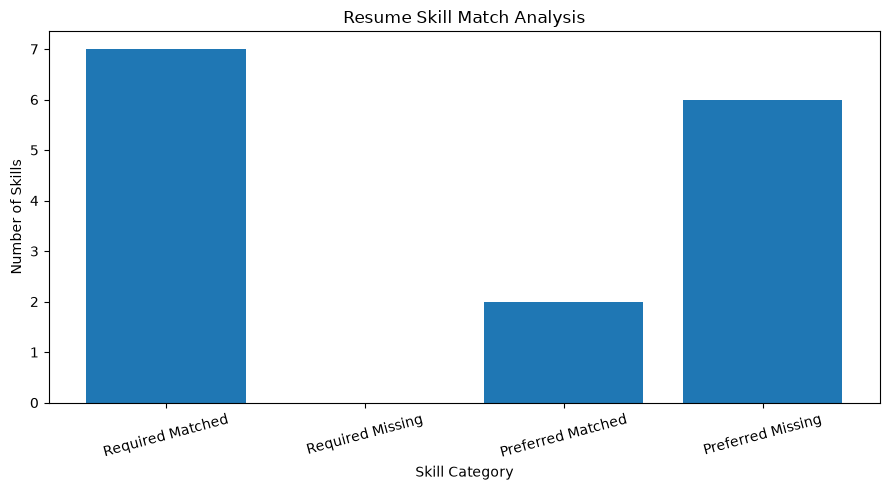
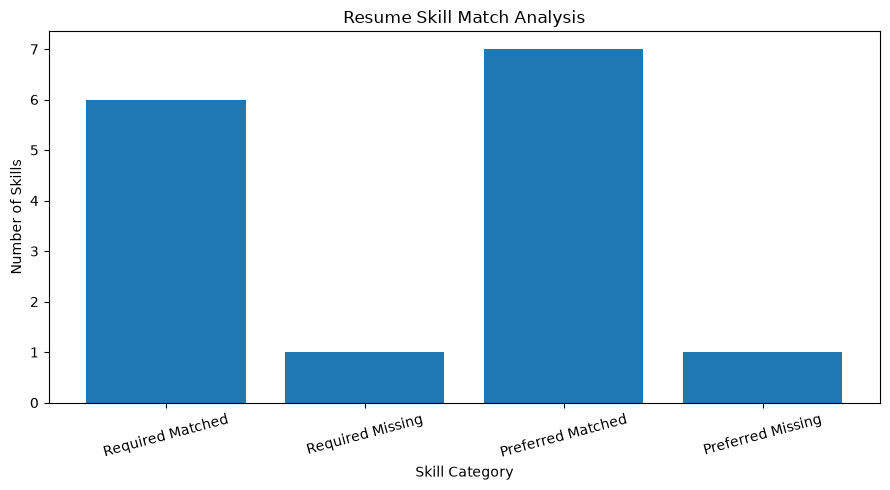
Improve skill matching with synonym support

diff --git a/resume_analyzer.py b/resume_analyzer.py
@@ -105,22 +105,61 @@ with open("skills.txt", "r", encoding="utf-8") as file:
         elif current_section == "preferred":
             preferred_skills.append(line.lower())
 
+# ==========================================
+# SKILL MATCHING WITH SYNONYMS
+# ==========================================
+
+resume_lower = resume_text.lower()
+job_lower = job_description.lower()
+
+skill_synonyms = {
+    "python": ["python"],
+    "sql": ["sql", "structured query language"],
+    "pandas": ["pandas"],
+    "numpy": ["numpy"],
+    "scikit-learn": ["scikit-learn", "sklearn"],
+    "machine learning": ["machine learning", "ml"],
+    "data analysis": ["data analysis", "analyzing data", "analysing data"],
+    "statistics": ["statistics", "statistical analysis"],
+    "data visualization": [
+        "data visualization",
+        "data visualisation",
+        "data visualization tools",
+        "data visualisation tools"
+    ],
+    "communication": ["communication", "communicating"],
+    "problem-solving": ["problem-solving", "problem solving"],
+    "analytical thinking": ["analytical thinking", "analytical skills"],
+    "git": ["git"],
+    "github": ["github"],
+    "business analytics": ["business analytics", "business analysis"]
+}
+
+
+def skill_is_present(skill, text):
+    variants = skill_synonyms.get(skill.lower(), [skill.lower()])
+
+    for variant in variants:
+        pattern = r"(?<!\w)" + re.escape(variant) + r"(?!\w)"
+
+        if re.search(pattern, text):
+            return True
+
+    return False
+
+
 skills = required_skills + preferred_skills
 
 matching_skills = []
 missing_skills = []
 
 for skill in skills:
-
-    skill_pattern = r"\b" + re.escape(skill) + r"\b"
-
-    if re.search(skill_pattern, job_lower):
-
-        if re.search(skill_pattern, resume_lower):
+    if skill_is_present(skill, job_lower):
+        if skill_is_present(skill, resume_lower):
             matching_skills.append(skill)
-
         else:
             missing_skills.append(skill)
+
 
 # ==========================================
 # TEXT OVERLAP MATCH SCORE
@@ -195,22 +234,22 @@ print("\nAnalysis completed successfully!")
 
 required_job_skills = [
     skill for skill in required_skills
-    if re.search(r"\b" + re.escape(skill) + r"\b", job_lower)
+    if skill_is_present(skill, job_lower)
 ]
 
 preferred_job_skills = [
     skill for skill in preferred_skills
-    if re.search(r"\b" + re.escape(skill) + r"\b", job_lower)
+    if skill_is_present(skill, job_lower)
 ]
 
 required_matches = [
     skill for skill in required_job_skills
-    if re.search(r"\b" + re.escape(skill) + r"\b", resume_lower)
+    if skill_is_present(skill, resume_lower)
 ]
 
 preferred_matches = [
     skill for skill in preferred_job_skills
-    if re.search(r"\b" + re.escape(skill) + r"\b", resume_lower)
+    if skill_is_present(skill, resume_lower)
 ]
 
 required_score = (
